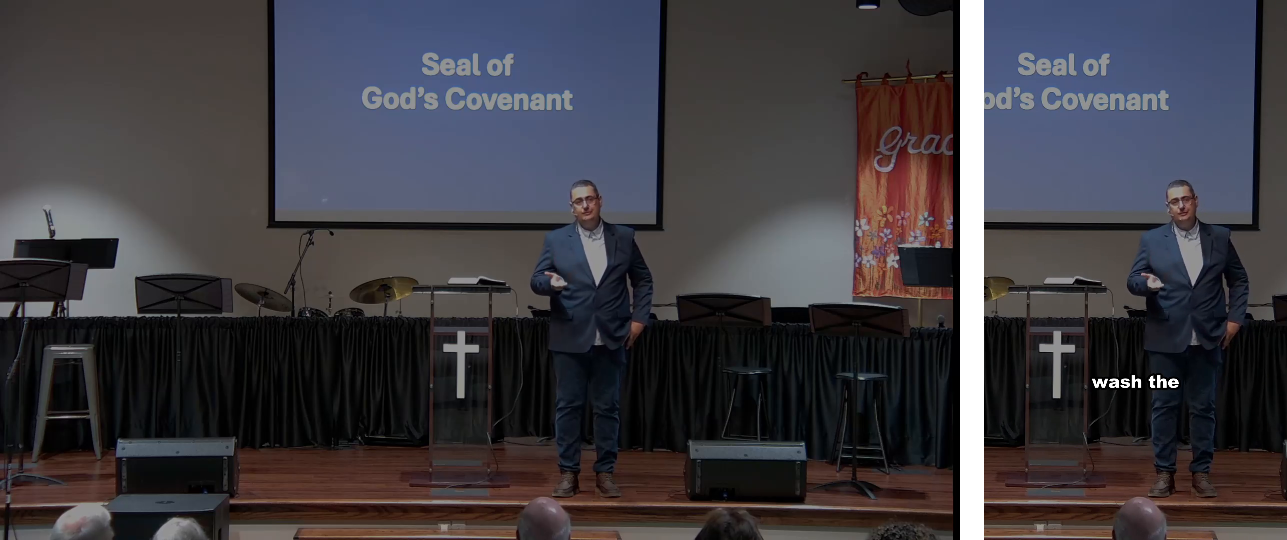
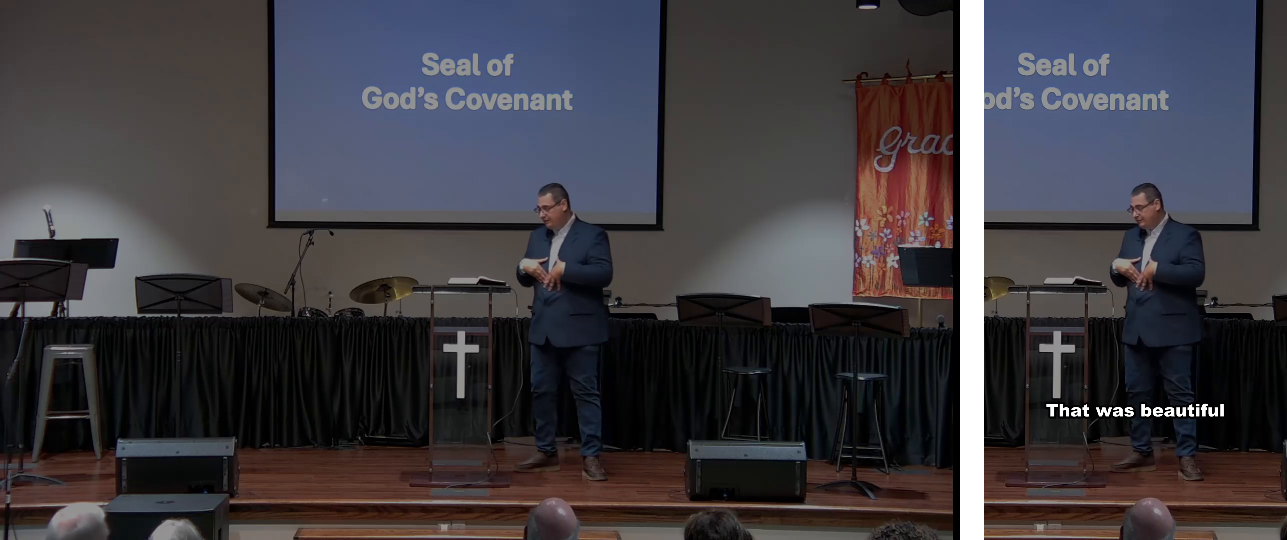
Add per-run --speaker flag; better README screenshot moment

diff --git a/sermon_shorts/cli.py b/sermon_shorts/cli.py
@@ -61,6 +61,9 @@ def main(argv: list[str] | None = None) -> int:
                              "instead of asking Claude again (e.g. after fixing a transcript typo)")
     parser.add_argument("--only", type=int, default=None, metavar="N",
                         help="with --from-manifest: re-render only clip number N")
+    parser.add_argument("--speaker", default=None, metavar="NAME",
+                        help='who is preaching this service, e.g. "Pastor Mike Jones" — '
+                             "mentioned in descriptions; overrides church.json for this run")
     parser.add_argument("--sermon-only", action="store_true",
                         help="instead of making clips, trim the service down to just the "
                              "sermon and save it as <video>_sermon.mp4")
@@ -116,6 +119,8 @@ def main(argv: list[str] | None = None) -> int:
         )
     else:
         church = _load_church()
+        if args.speaker:
+            church = {**(church or {}), "speaker": args.speaker}
         if church:
             print(f"[2/4] Selecting the {args.clips} best moments with Claude "
                   f"(church profile: {church.get('church_name', 'unnamed')})")

diff --git a/README.md b/README.md
@@ -113,6 +113,13 @@ you want on every post). All fields are optional; without a `church.json` the
 descriptions stay generic. Like `.env`, this file stays on your machine and is
 never committed.
 
+If your speaker rotates, leave `speaker` out of the config and pass it per
+service instead:
+
+```
+python -m sermon_shorts sunday.mp4 --speaker "Pastor Mike Jones"
+```
+
 ## Notes
 
 - **First run downloads the Whisper model** (~500 MB for `small`) — after that it